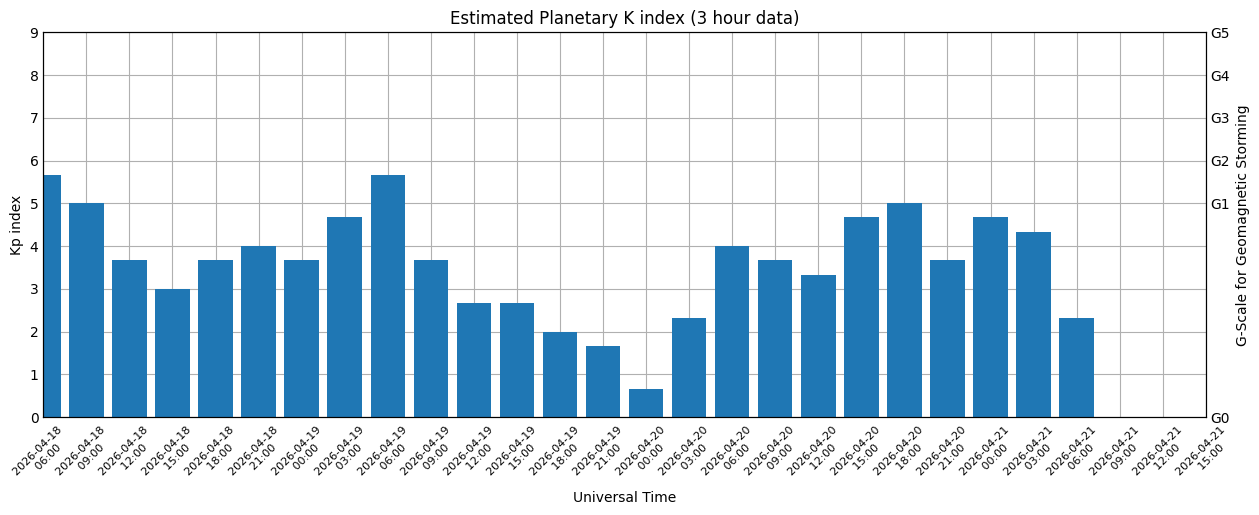
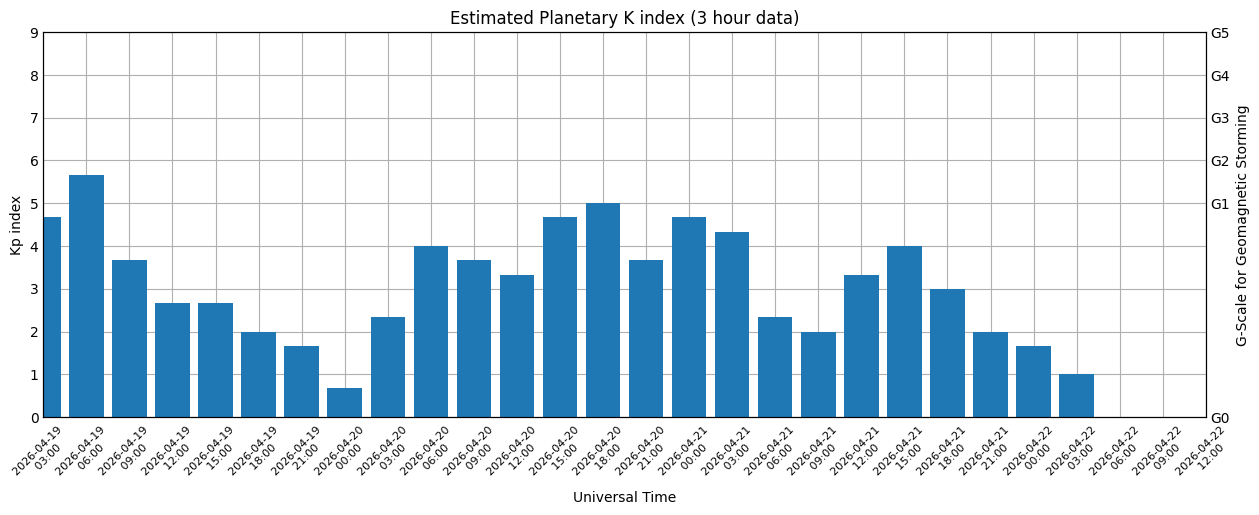
new day update

Changed region(s): [[0.031, 0.3107, 0.9603, 0.7767], [0.7744, 0.8699, 0.8054, 0.901], [0.4956, 0.8699, 0.5266, 0.901]]

diff --git a/README.md b/README.md
@@ -1,11 +1,11 @@
 # Space Weather App
 ## Astronomical Picture of the Day
 ![Image](Astro_Images/image.jpg)
-<br />**Date image released:**  2026-04-21
-<br />**This image is owned by:**  Angel Fux
-<br />**Title of the image:**  Three Sky Arches over Snowy Alps
-<br />**Description for the image:**  Why are there three arches across the sky instead of two? Last month, after being dropped off by a helicopter at a high mountain peak in the Alps near the Swiss Italian border, an adventurous astrophotographer expected two arches of our Milky Way galaxy to be visible during the night. These were the inner arch looking in toward the center of our galaxy on the left, visible just before sunrise, and the outer arch on the right visible just after sunset.  But there were three arches. The surprised astrophotographer soon realized that the sky was so dark that an entire arc of faint zodiacal light was also noticeable -- sunlight scattered by inner Solar System dust.  And it artfully connected the two Milky Way arches!  The next morning a helicopter picked the astrophotographer back up, and after 40 hours of processing and combining that night's images, the featured triple-arch 360-degree panorama resulted.    Jigsaw Vistas: Astronomy Puzzle of the Day
-<br />**URL for this image:**  https://apod.nasa.gov/apod/image/2604/TripleArchAlps_Fux_7500.jpg
+<br />**Date image released:**  2009-06-16
+<br />**This image is owned by:**  Tahir Sisman
+<br />**Title of the image:**  Moonrise Over Turkey
+<br />**Description for the image:**  Is the Moon larger when near the horizon?  No -- as shown above, the Moon appears to be very nearly the same size no matter its location on the sky.  Oddly, the cause or causes for the common Moon Illusion are still being debated. Two leading explanations both hinge on the illusion that foreground objects make a horizon Moon seem farther in the distance.  The historically most popular explanation then holds that the mind interprets more distant objects as wider, while a more recent explanation adds that the distance illusion may actually make the eye focus differently.  Either way, the angular diameter of the Moon is always about 0.5 degrees.  In the above time-lapse sequence of the Moon taken in 2007, with one exposure taken to bring up the foreground of Izmit Bay in Turkey.  On the occasion of our 14th anniversary, the APOD editors thank all of our contributors and mirror site operators whose volunteer efforts help bring the wonders of astronomy to millions of people around the world. Additional thanks also go to our Turkish mirror site operators for submitting the above mouseover image.
+<br />**URL for this image:**  https://apod.nasa.gov/apod/image/0906/moonrise_sisman_orig.jpg
 
 ## X-Ray Flux
 The GOES X-ray plots shown here are used to track solar activity and solar flares. Large solar X-ray flares can change the Earth’s ionosphere, which blocks high-frequency (HF) radio transmissions on the sunlit side of the Earth. Solar flares are also associated with Coronal Mass Ejections (CMEs) which can ultimately lead to geomagnetic storms. SWPC sends out space weather alerts at the M5 (5x10^-5 Watts/mw) level. Some large flares are accompanied by strong radio bursts that may interfere with other radio frequencies and cause problems for satellite communication and radio navigation (GPS).
@@ -49,41 +49,39 @@ Scale | Description | Effect
 ## 3-day Forecast
 ```
 :Product: 3-Day Forecast
-:Issued: 2026 Apr 21 0030 UTC
+:Issued: 2026 Apr 22 0030 UTC
 # Prepared by the U.S. Dept. of Commerce, NOAA, Space Weather Prediction Center
 #
 A. NOAA Geomagnetic Activity Observation and Forecast
 
 The greatest observed 3 hr Kp over the past 24 hours was 5 (NOAA Scale
 G1).
-The greatest expected 3 hr Kp for Apr 21-Apr 23 2026 is 4.00 (below NOAA
+The greatest expected 3 hr Kp for Apr 22-Apr 24 2026 is 3.00 (below NOAA
 Scale levels).
 
-NOAA Kp index breakdown Apr 21-Apr 23 2026
+NOAA Kp index breakdown Apr 22-Apr 24 2026
 
-             Apr 21       Apr 22       Apr 23
-00-03UT       3.33         2.67         1.67     
-03-06UT       4.00         2.00         1.33     
-06-09UT       3.00         2.33         1.33     
-09-12UT       2.67         2.00         1.33     
-12-15UT       2.33         2.00         1.33     
-15-18UT       3.00         2.33         1.33     
-18-21UT       2.67         2.00         1.67     
-21-00UT       2.33         2.00         1.67     
+             Apr 22       Apr 23       Apr 24
+00-03UT       2.67         2.33         2.33     
+03-06UT       2.00         2.00         2.67     
+06-09UT       2.33         2.00         2.67     
+09-12UT       2.00         2.00         1.67     
+12-15UT       2.00         0.67         1.33     
+15-18UT       2.33         2.00         2.00     
+18-21UT       2.00         2.67         2.00     
+21-00UT       2.00         3.00         2.33     
 
-Rationale: Active periods (below NOAA G-scale levels) of geomagnetic
-activity are expected on 21 Apr, with a slight chance for a G1 (Minor)
-geomagnetic storm as the CH HSS effects wane.  No geomagnetic storms are
-expected on 22-23 Apr.
+Rationale: No G1 (Minor) or greater geomagnetic storms are expected as
+the ongoing CH HSS effects wane.
 
 B. NOAA Solar Radiation Activity Observation and Forecast
 
 Solar radiation, as observed by NOAA GOES-18 over the past 24 hours, was
 below S-scale storm level thresholds.
 
-Solar Radiation Storm Forecast for Apr 21-Apr 23 2026
+Solar Radiation Storm Forecast for Apr 22-Apr 24 2026
 
-              Apr 21  Apr 22  Apr 23
+              Apr 22  Apr 23  Apr 24
 S1 or greater    1%      1%      1%
 
 Rationale: No S1 (Minor) or greater solar radiation storms are expected.
@@ -94,13 +92,13 @@ C. NOAA Radio Blackout Activity and Forecast
 
 No radio blackouts were observed over the past 24 hours.
 
-Radio Blackout Forecast for Apr 21-Apr 23 2026
+Radio Blackout Forecast for Apr 22-Apr 24 2026
 
-              Apr 21        Apr 22        Apr 23
-R1-R2            5%            5%            5%
+              Apr 22        Apr 23        Apr 24
+R1-R2           10%           10%           10%
 R3 or greater    1%            1%            1%
 
-Rationale: No R1 (Minor) or greater radio blackouts are expected.  No
-significant active region flare activity is forecast.
+Rationale: There is a slight chance for R1-R2 (Minor-Moderate) radio
+blackouts in the next three days.
 
 ```